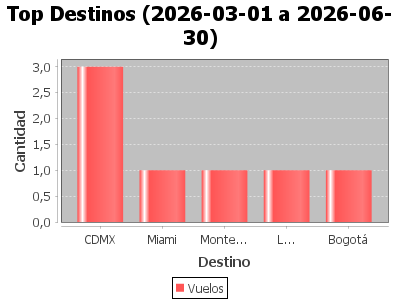
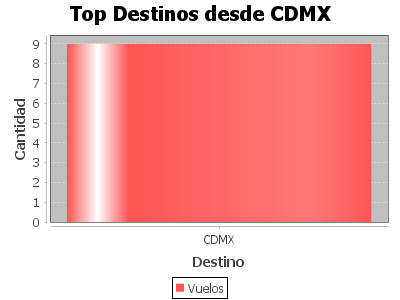
encripte datos pago

diff --git a/src/Controller/Tarjeta_de_debito_controller.java b/src/Controller/Tarjeta_de_debito_controller.java
@@ -169,7 +169,6 @@ public class Tarjeta_de_debito_controller implements ActionListener{
                     final ArrayList<Integer> listaPasajeros;
 
                     if (datos.id_pasajero != null && !datos.id_pasajero.isEmpty()) {
-                        // Caso compra: ya hay datos cargados, se usan tal cual
                         listaPasajeros = datos.id_pasajero;
                     } else {
                         listaPasajeros = new ArrayList<>();
@@ -426,10 +425,6 @@ public class Tarjeta_de_debito_controller implements ActionListener{
                 Thread.sleep(4000);
                 String tipoVuelo = ticketdao.obtenerTipoVuelo(idPasajero1);
                 if (tipoVuelo.equals("IDA_VUELTA")) {
-
-                    
-                    String fechaRegreso = ticketdao.obtenerFechaRegreso(idPasajero1);
-
                     for (int idPasajero : listaPasajeros) {
                         // Obtener datos desde el DAOD
                         String nombre = ticketdao.obtenerNombrePasajero(idPasajero);
@@ -445,6 +440,7 @@ public class Tarjeta_de_debito_controller implements ActionListener{
                         int ticket = ticketdao.obtenerCodTicket(idPasajero);
                         int clase = ticketdao.obtenerClase(idPasajero);
                         int equipaje = ticketdao.obtenerEquiExtra(idPasajero);
+                        String fechaRegreso = ticketdao.obtenerFechaRegreso(idPasajero1);
 
                         // Generar PDF de ida y de vuelta
                         File pdf1 = creador.generarTicket(

diff --git a/src/Controller/Reportes_financieros_controller.java b/src/Controller/Reportes_financieros_controller.java
@@ -12,6 +12,7 @@ import javax.swing.table.DefaultTableModel;
 import Model.Reportes_financieros_dao;
 import View.Apartado_reportes_menu_view;
 import View.Apartado_reportes_financieros_view;
+import java.awt.Color;
 import java.awt.Dimension;
 import java.text.SimpleDateFormat;
 import java.util.Calendar;
@@ -20,6 +21,8 @@ import javax.swing.JOptionPane;
 import org.jfree.chart.ChartFactory;
 import org.jfree.chart.ChartPanel;
 import org.jfree.chart.JFreeChart;
+import org.jfree.chart.plot.CategoryPlot;
+import org.jfree.chart.renderer.category.BarRenderer;
 import org.jfree.data.category.DefaultCategoryDataset;
 import org.jfree.data.general.DefaultPieDataset;
 
@@ -127,10 +130,16 @@ public class Reportes_financieros_controller implements ActionListener{
         DefaultCategoryDataset dataset = reportes.obtenerIngresosDatasetT(fechaInicio, fechaFin);
         chartIngresos = ChartFactory.createBarChart(
             "Ingresos (" + fechaInicio + " a " + fechaFin + ")",
-            "Mes",
-            "Monto",
-            dataset
+                "Mes",
+                "Monto",
+                dataset
         );
+        // Obtener el plot y el renderer
+        //CategoryPlot plot = chartIngresos.getCategoryPlot();
+        //BarRenderer renderer = (BarRenderer) plot.getRenderer();
+
+        // Cambiar el color de las barras (serie 0)
+        //renderer.setSeriesPaint(0, Color.BLUE);
         ChartPanel panel = new ChartPanel(chartIngresos);
         panel.setPreferredSize(new Dimension(400, 300));
         vista.panelIngresos.removeAll();

diff --git a/src/Controller/Transferencia_controller.java b/src/Controller/Transferencia_controller.java
@@ -579,11 +579,8 @@ public class Transferencia_controller implements ActionListener{
 
                 Thread.sleep(4000);
                 String tipoVuelo = ticketdao.obtenerTipoVuelo(idPasajero1);
+                System.out.println(listaPasajeros);
                 if (tipoVuelo.equals("IDA_VUELTA")) {
-
-                    
-                    String fechaRegreso = ticketdao.obtenerFechaRegreso(idPasajero1);
-
                     for (int idPasajero : listaPasajeros) {
                         // Obtener datos desde el DAOD
                         String nombre = ticketdao.obtenerNombrePasajero(idPasajero);
@@ -599,6 +596,7 @@ public class Transferencia_controller implements ActionListener{
                         int ticket = ticketdao.obtenerCodTicket(idPasajero);
                         int clase = ticketdao.obtenerClase(idPasajero);
                         int equipaje = ticketdao.obtenerEquiExtra(idPasajero);
+                        String fechaRegreso = ticketdao.obtenerFechaRegreso(idPasajero1);
 
                         // Generar PDF de ida y de vuelta
                         File pdf1 = creador.generarTicket(

diff --git a/src/Controller/Tarjeta_de_credito_controller.java b/src/Controller/Tarjeta_de_credito_controller.java
@@ -428,10 +428,6 @@ public class Tarjeta_de_credito_controller implements ActionListener {
                 Thread.sleep(4000);
                 String tipoVuelo = ticketdao.obtenerTipoVuelo(idPasajero1);
                 if (tipoVuelo.equals("IDA_VUELTA")) {
-
-                    
-                    String fechaRegreso = ticketdao.obtenerFechaRegreso(idPasajero1);
-
                     for (int idPasajero : listaPasajeros) {
                         // Obtener datos desde el DAOD
                         String nombre = ticketdao.obtenerNombrePasajero(idPasajero);
@@ -447,6 +443,7 @@ public class Tarjeta_de_credito_controller implements ActionListener {
                         int ticket = ticketdao.obtenerCodTicket(idPasajero);
                         int clase = ticketdao.obtenerClase(idPasajero);
                         int equipaje = ticketdao.obtenerEquiExtra(idPasajero);
+                        String fechaRegreso = ticketdao.obtenerFechaRegreso(idPasajero1);
 
                         // Generar PDF de ida y de vuelta
                         File pdf1 = creador.generarTicket(

diff --git a/src/Controller/CreadorPDFTickets.java b/src/Controller/CreadorPDFTickets.java
@@ -78,14 +78,14 @@ public class CreadorPDFTickets {
             }
             document.add(new Paragraph("Clase: " + nombreClase + costoClase + "\n"));
             if (equipaje > 0) {
-                double precioPorKg = 10000;
+                double precioPorKg = 4000;
                 double costoE = equipaje * precioPorKg;
 
                 document.add(new Paragraph("Equipaje Extra en Bodega: " + equipaje + " KG"));
                 document.add(new Paragraph("Costo de Equipaje Extra en Bodega: $" + String.format("%,.0f", costoE) + " COP"));
             }
 
-            double costoFinal = costoC + (equipaje * 10000) + costo;
+            double costoFinal = costoC + (equipaje * 4000) + costo;
 
             // Costo
             Font costoFont = new Font(Font.FontFamily.HELVETICA, 14, Font.BOLD, BaseColor.DARK_GRAY);

diff --git a/src/Model/DatosPagoDao.java b/src/Model/DatosPagoDao.java
@@ -19,7 +19,10 @@ public class DatosPagoDao {
     
     public void enviarDatos(DatosPago pago){
         String sql = "INSERT INTO datos_pago (numero_cuenta, cvv, nombre_titular, fecha_vencimiento, total, medio_pago) "
-                + "VALUES (?, ?, ?, ?, ?, ?);";
+           + "VALUES ("
+           + "CONCAT(REPEAT('*', LENGTH(?)-4), RIGHT(?, 4)), "
+           + "'***', "                                       
+           + "?, ?, ?, ?);";
         try{
             con = Conexion.getObject().getConection();
             ps=con.prepareStatement(sql);
